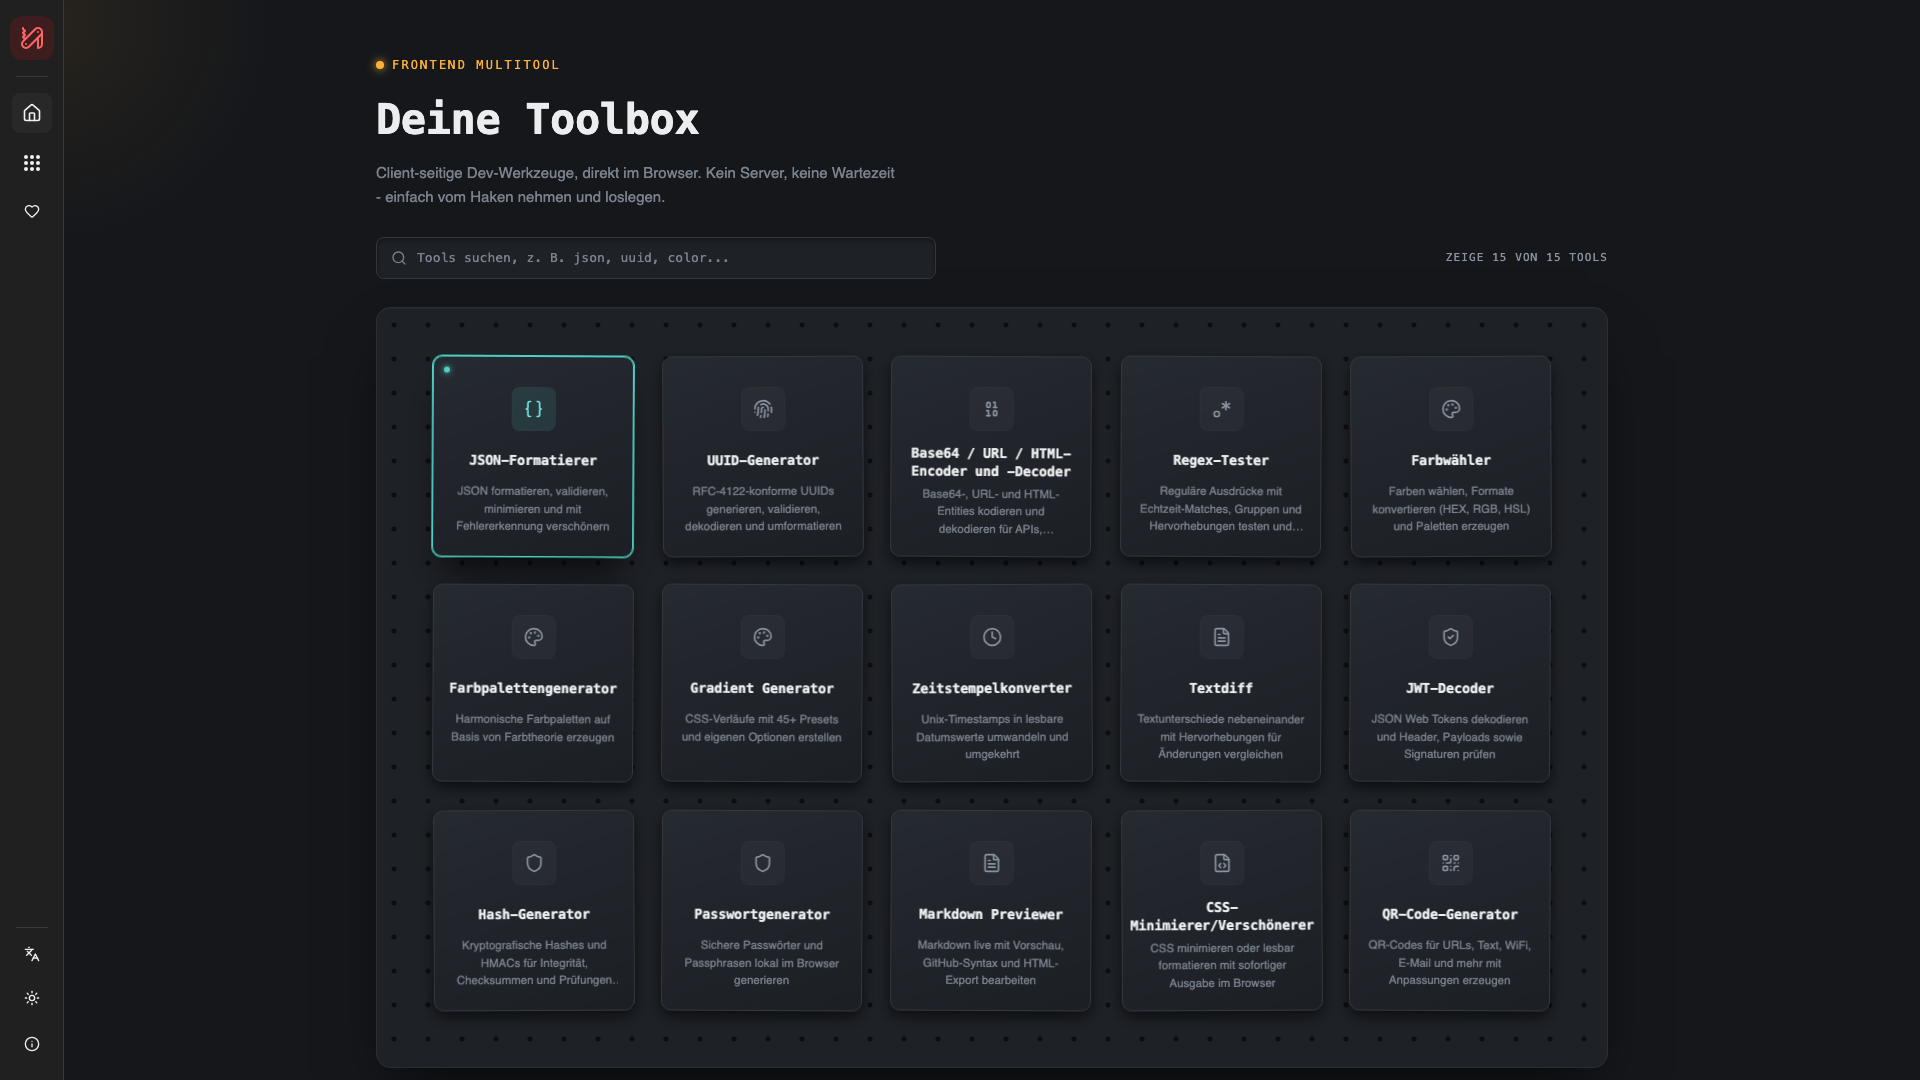
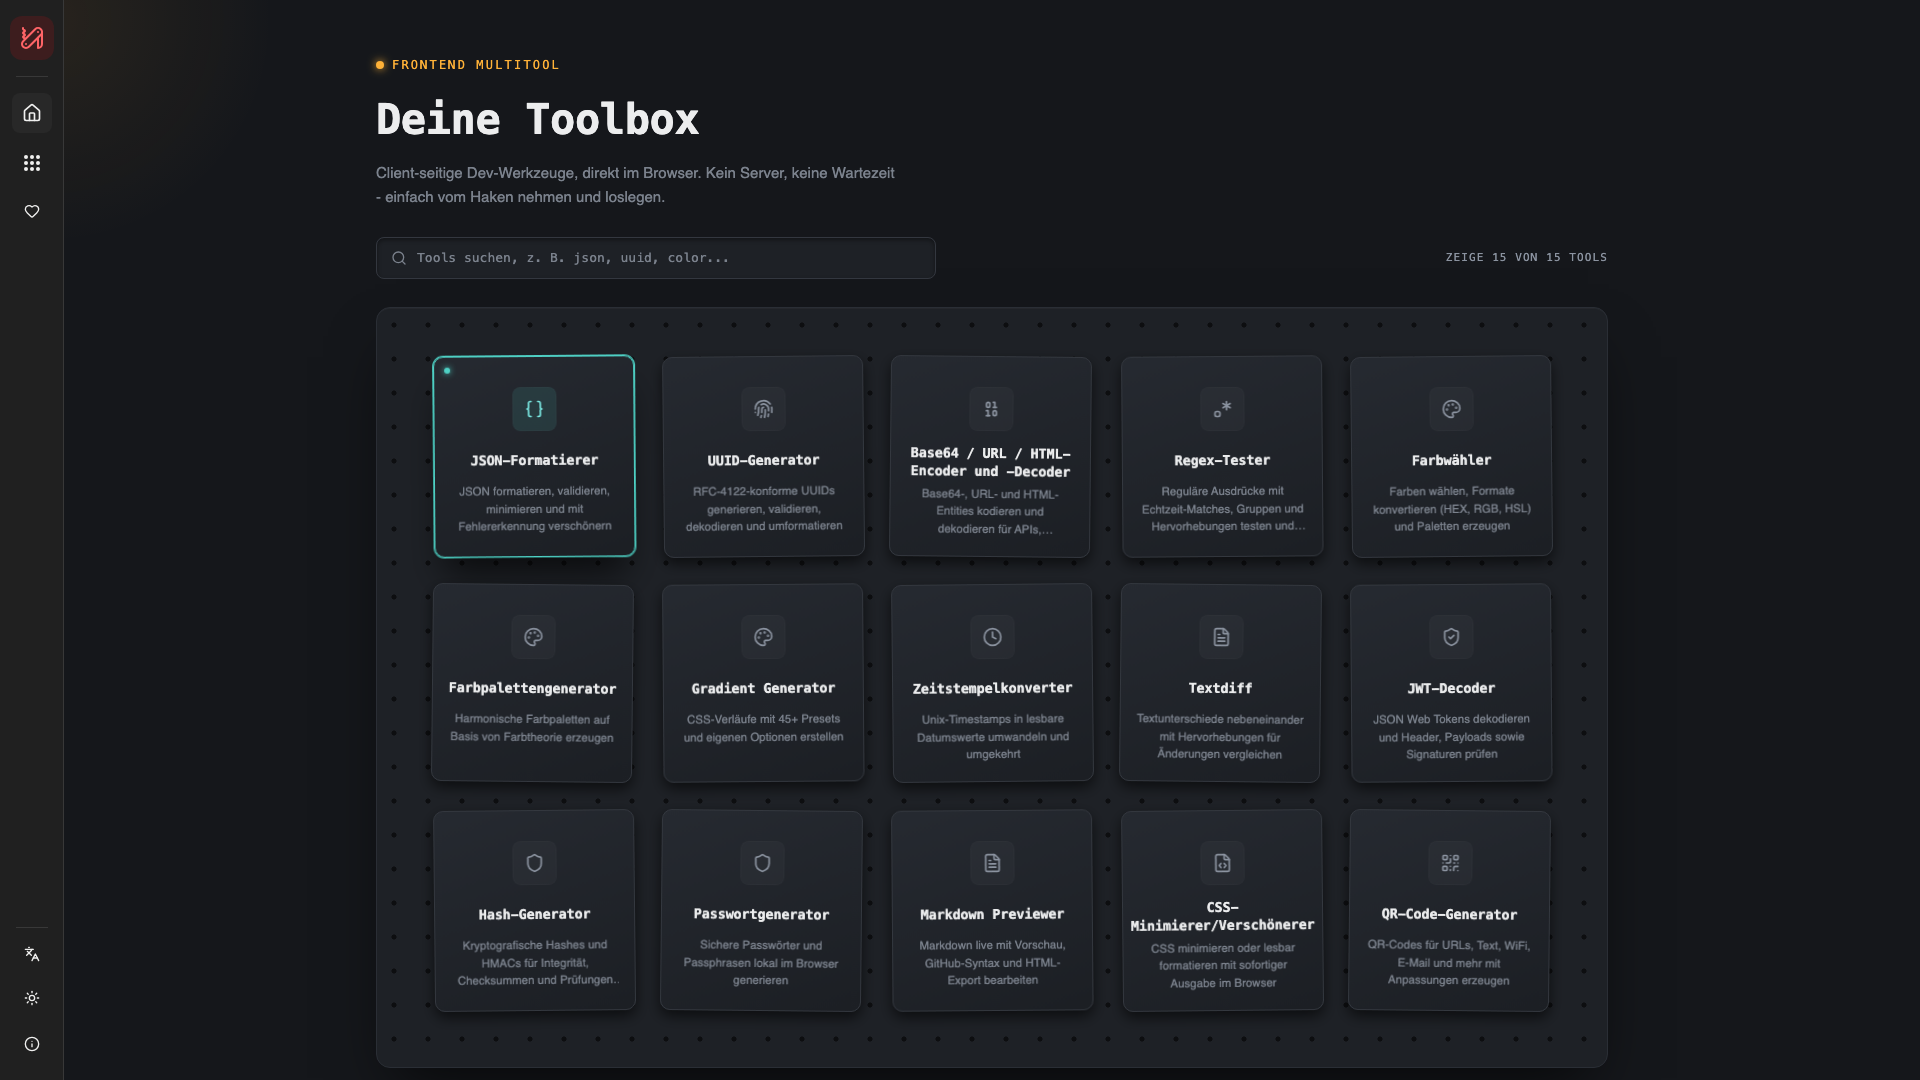
Fix hardcoded <html lang=\"en\">, disable PWA install, update README demo link
- app/layout.tsx always rendered lang=\"en\" in the server HTML regardless of
  locale; client-side JS silently corrected it after hydration, masking the
  bug from anything that reads the initial SSR markup (screen readers, SEO
  crawlers). Now sourced from getServerLocale() like the rest of the metadata.
- manifest.json display reverted from \"standalone\" back to \"browser\" so
  Chrome no longer offers to install the site as an app.
- README: live demo link now points at the deployed frontend-multi-tool.vercel.app
  and the screenshot was recaptured from that live deployment.

diff --git a/app/layout.tsx b/app/layout.tsx
@@ -133,10 +133,11 @@ export default async function RootLayout({
       : themeCookie === "light"
         ? "light"
         : undefined;
+  const locale = await getServerLocale();
 
   return (
     <html
-      lang="en"
+      lang={locale}
       className={initialTheme === "dark" ? "dark" : undefined}
       suppressHydrationWarning
     >

diff --git a/README.md b/README.md
@@ -2,6 +2,8 @@
 
 A modern, privacy-first web application built with Next.js 16 that provides a comprehensive collection of free online developer tools. All tools run entirely client-side in your browser, ensuring your data never leaves your device.
 
+### 🔗 [**Live Demo →**](https://frontend-multi-tool.vercel.app/)
+
 ![Frontend Multitool Screenshot](/public/images/screenshot/homepage.png)
 
 ## 🚀 Features
